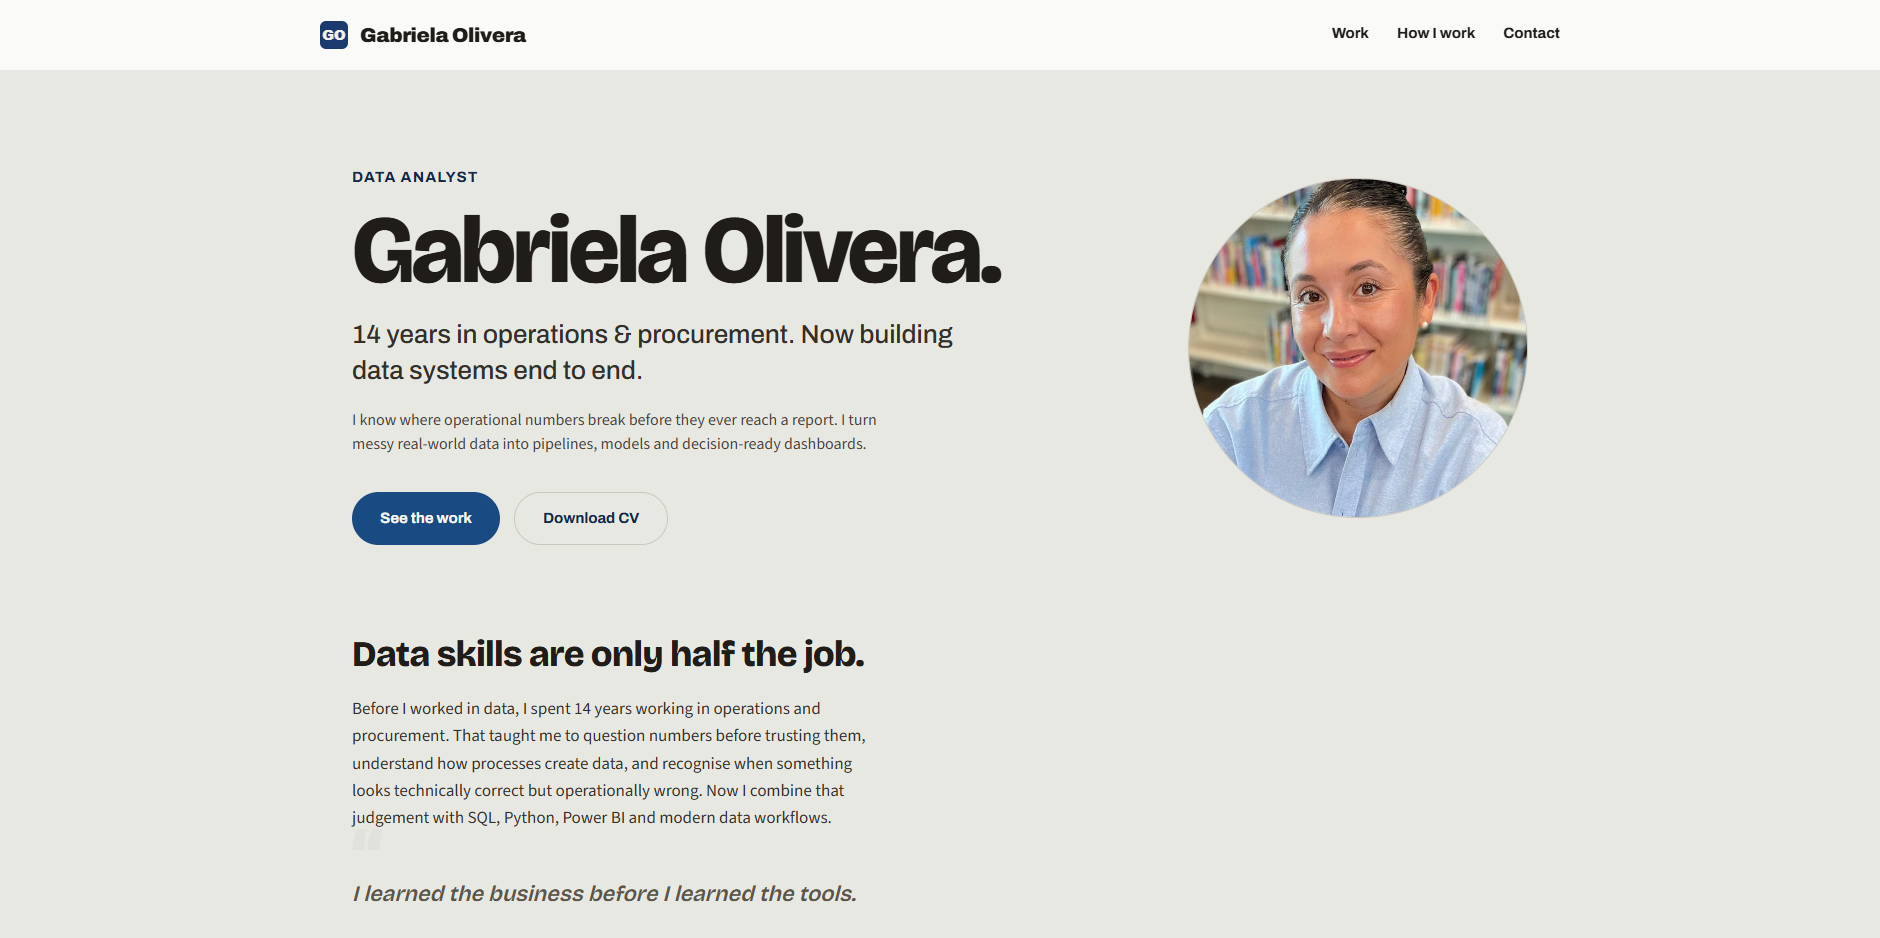
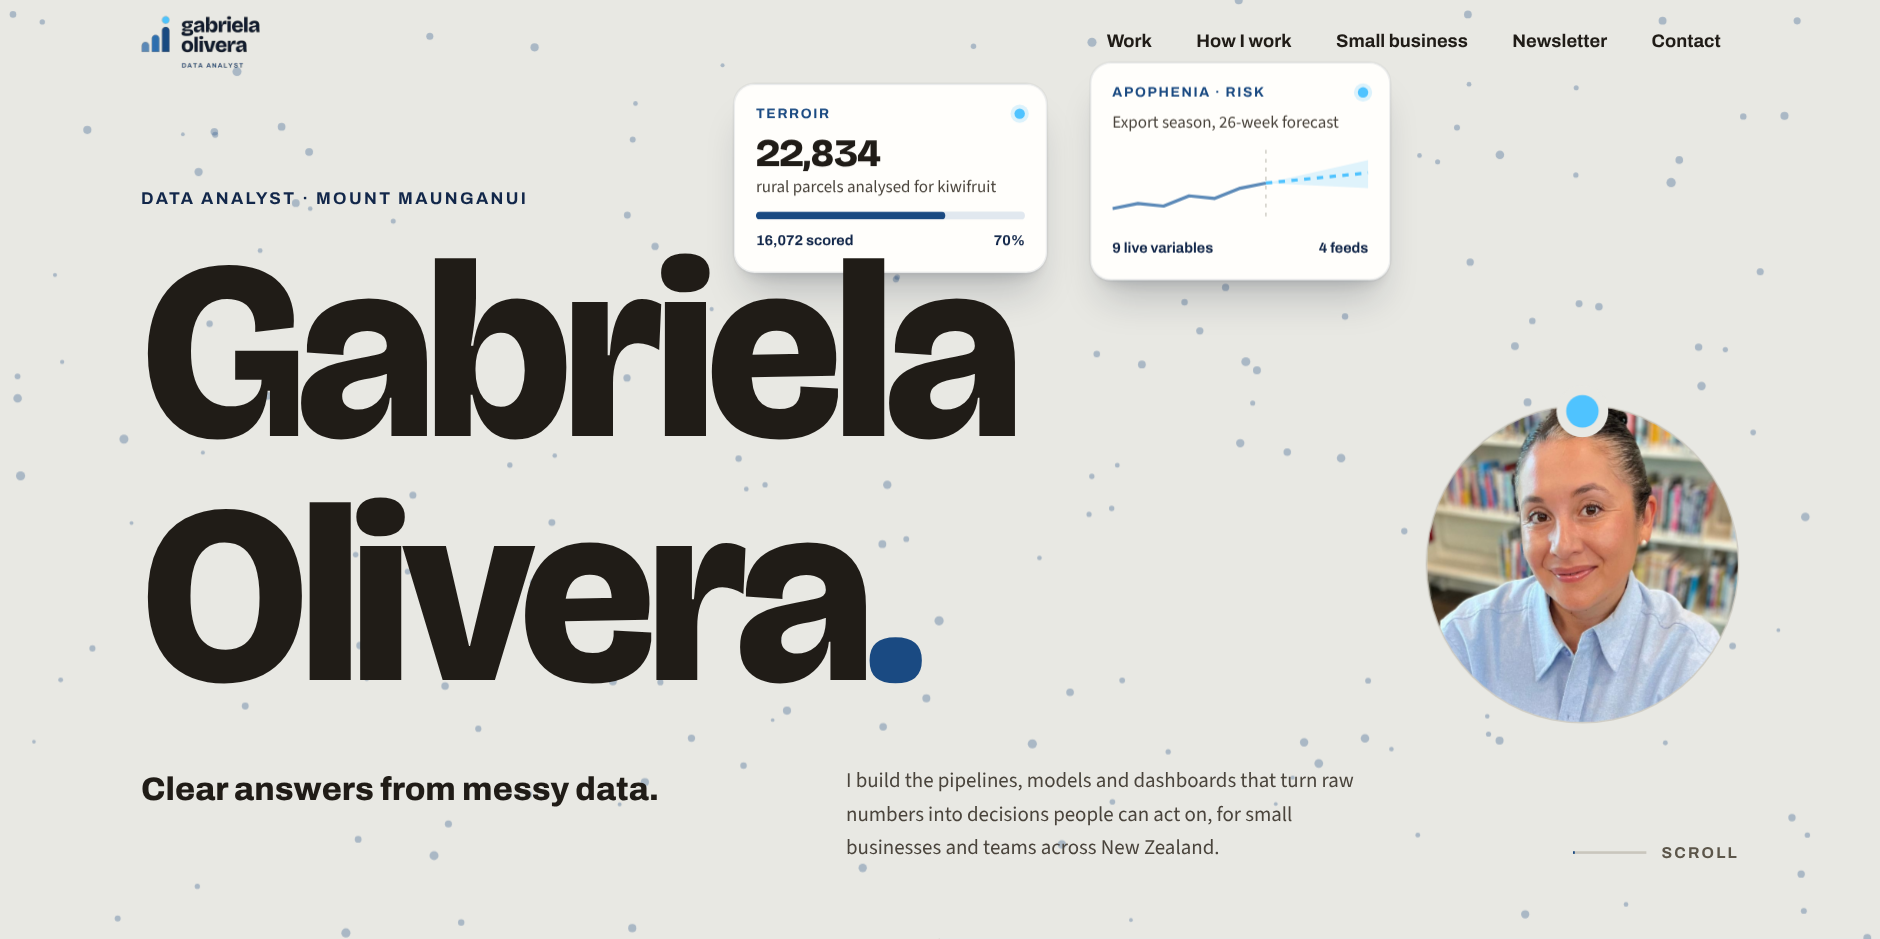
Fix case study horizontal overflow at 320px and refresh README cover
The client logo card forced the hero grid column wider than a 320px
screen. The column can now shrink and the logo scales down with it.
Version bumped to 20261023c. README cover image regenerated from the
current home page.

Claude-Session: https://claude.ai/code/session_01W9HK85pkCVwaVebqtQctoN

diff --git a/case-studies/litchfields-grain/index.html b/case-studies/litchfields-grain/index.html
@@ -25,8 +25,8 @@
 <meta name="twitter:image" content="https://gabrielaolivera.nz/assets/images/og-card-litchfields-grain.png">
 <meta name="twitter:image:alt" content="Litchfields Grain: from scattered records to one clear view. A case study by Gabriela Olivera.">
 <link rel="icon" type="image/png" href="../../assets/favicon.png">
-<link rel="stylesheet" href="../../assets/site.css?v=20261023b">
-<link rel="stylesheet" href="../../assets/case-study-v2.css?v=20261023b">
+<link rel="stylesheet" href="../../assets/site.css?v=20261023c">
+<link rel="stylesheet" href="../../assets/case-study-v2.css?v=20261023c">
 </head>
 <body>
 <a class="skip" href="#main">Skip to main content</a>
@@ -172,6 +172,6 @@
   </div>
 </footer>
 
-<script src="../../assets/site.js?v=20261023b"></script>
+<script src="../../assets/site.js?v=20261023c"></script>
 </body>
 </html>

diff --git a/small-business/index.html b/small-business/index.html
@@ -25,7 +25,7 @@
 <meta name="twitter:image:alt" content="Gabriela Olivera, for small businesses in Bay of Plenty: straight answers from the numbers you already have.">
 
 <link rel="icon" type="image/png" href="../assets/favicon.png">
-<link rel="stylesheet" href="../assets/site.css?v=20261023b">
+<link rel="stylesheet" href="../assets/site.css?v=20261023c">
 <!-- Cookie-free analytics (GoatCounter). The privacy policy describes it. -->
 <script data-goatcounter="https://gabrielaolivera.goatcounter.com/count" async src="https://gc.zgo.at/count.js"></script>
 <script type="application/ld+json">
@@ -561,6 +561,6 @@
     </form>
   </div>
 </div>
-<script src="../assets/site.js?v=20261023b"></script>
+<script src="../assets/site.js?v=20261023c"></script>
 </body>
 </html>

diff --git a/index.html b/index.html
@@ -26,7 +26,7 @@
 <meta name="twitter:image:alt" content="Gabriela Olivera | Data Analyst | Mount Maunganui. 22,834 parcels · 16,072 scored · 6-page dashboard.">
 
 <link rel="icon" type="image/png" href="assets/favicon.png">
-<link rel="stylesheet" href="assets/site.css?v=20261023b">
+<link rel="stylesheet" href="assets/site.css?v=20261023c">
 <!-- Cookie-free analytics (GoatCounter). The privacy policy describes it. -->
 <script data-goatcounter="https://gabrielaolivera.goatcounter.com/count" async src="https://gc.zgo.at/count.js"></script>
 <script type="application/ld+json">
@@ -293,6 +293,6 @@
     </form>
   </div>
 </div>
-<script src="assets/site.js?v=20261023b"></script>
+<script src="assets/site.js?v=20261023c"></script>
 </body>
 </html>

diff --git a/privacy/index.html b/privacy/index.html
@@ -25,7 +25,7 @@
 <meta name="twitter:image:alt" content="Gabriela Olivera, for small businesses in Bay of Plenty: straight answers from the numbers you already have.">
 
 <link rel="icon" type="image/png" href="../assets/favicon.png">
-<link rel="stylesheet" href="../assets/site.css?v=20261023b">
+<link rel="stylesheet" href="../assets/site.css?v=20261023c">
 <!-- Cookie-free analytics (GoatCounter). The privacy policy describes it. -->
 <script data-goatcounter="https://gabrielaolivera.goatcounter.com/count" async src="https://gc.zgo.at/count.js"></script>
 </head>
@@ -171,6 +171,6 @@
     </form>
   </div>
 </div>
-<script src="../assets/site.js?v=20261023b"></script>
+<script src="../assets/site.js?v=20261023c"></script>
 </body>
 </html>

diff --git a/404.html b/404.html
@@ -10,7 +10,7 @@
 <link rel="canonical" href="https://gabrielaolivera.nz/404.html">
 
 <link rel="icon" type="image/png" href="/assets/favicon.png">
-<link rel="stylesheet" href="/assets/site.css?v=20261023b">
+<link rel="stylesheet" href="/assets/site.css?v=20261023c">
 <!-- Cookie-free analytics (GoatCounter). The privacy policy describes it. -->
 <script data-goatcounter="https://gabrielaolivera.goatcounter.com/count" async src="https://gc.zgo.at/count.js"></script>
 </head>
@@ -77,6 +77,6 @@
     </form>
   </div>
 </div>
-<script src="/assets/site.js?v=20261023b"></script>
+<script src="/assets/site.js?v=20261023c"></script>
 </body>
 </html>

diff --git a/assets/case-study-v2.css b/assets/case-study-v2.css
@@ -75,7 +75,9 @@
   .cs2-find-grid{grid-template-columns:repeat(2,minmax(0,1fr))}
 }
 @media (max-width:860px){
-  .cs2-hero .cs2-top{grid-template-columns:1fr}
+  .cs2-hero .cs2-top{grid-template-columns:minmax(0,1fr)}
+  .cs2-client{padding-left:20px;padding-right:20px}
+  .cs2-client img{height:auto;width:auto;max-width:100%;max-height:84px;object-fit:contain;object-position:left}
   .cs2-section{grid-template-columns:1fr}
   .cs2-shot-pair{grid-template-columns:1fr}
   .cs2-find-grid{grid-template-columns:1fr}
